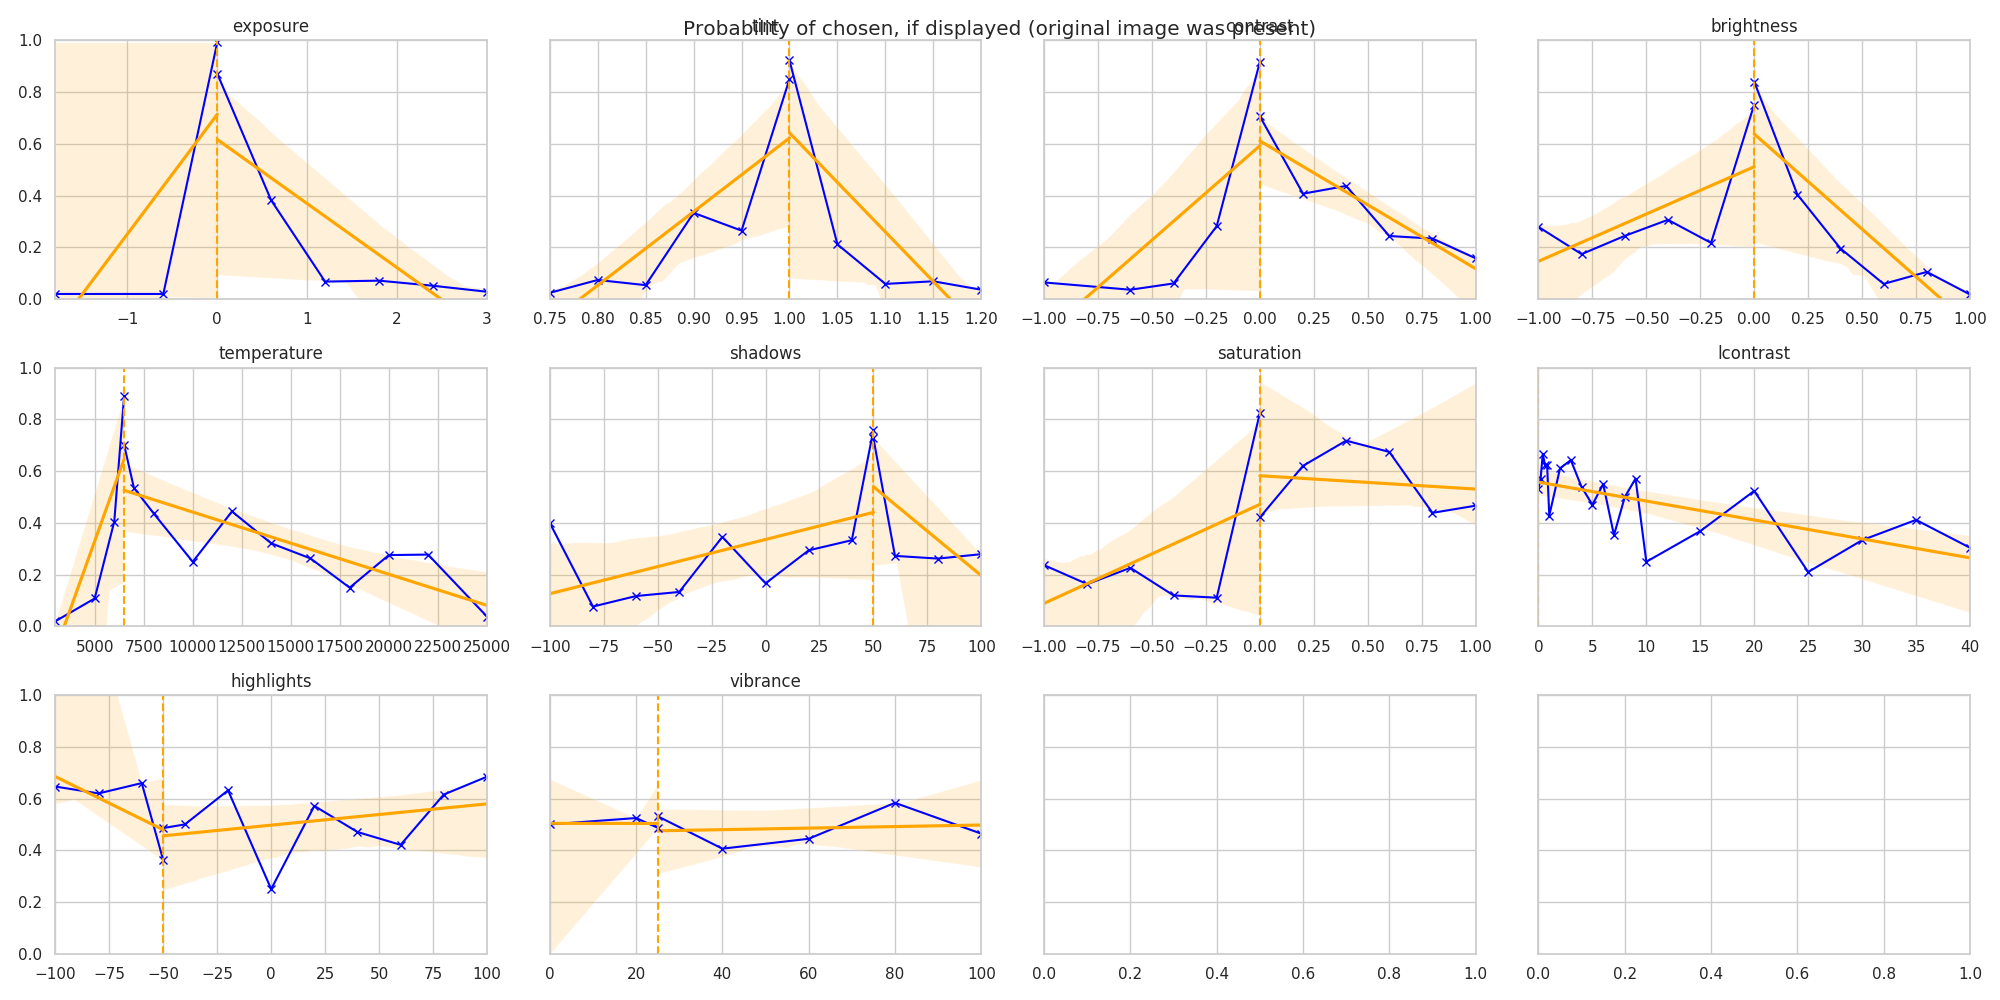
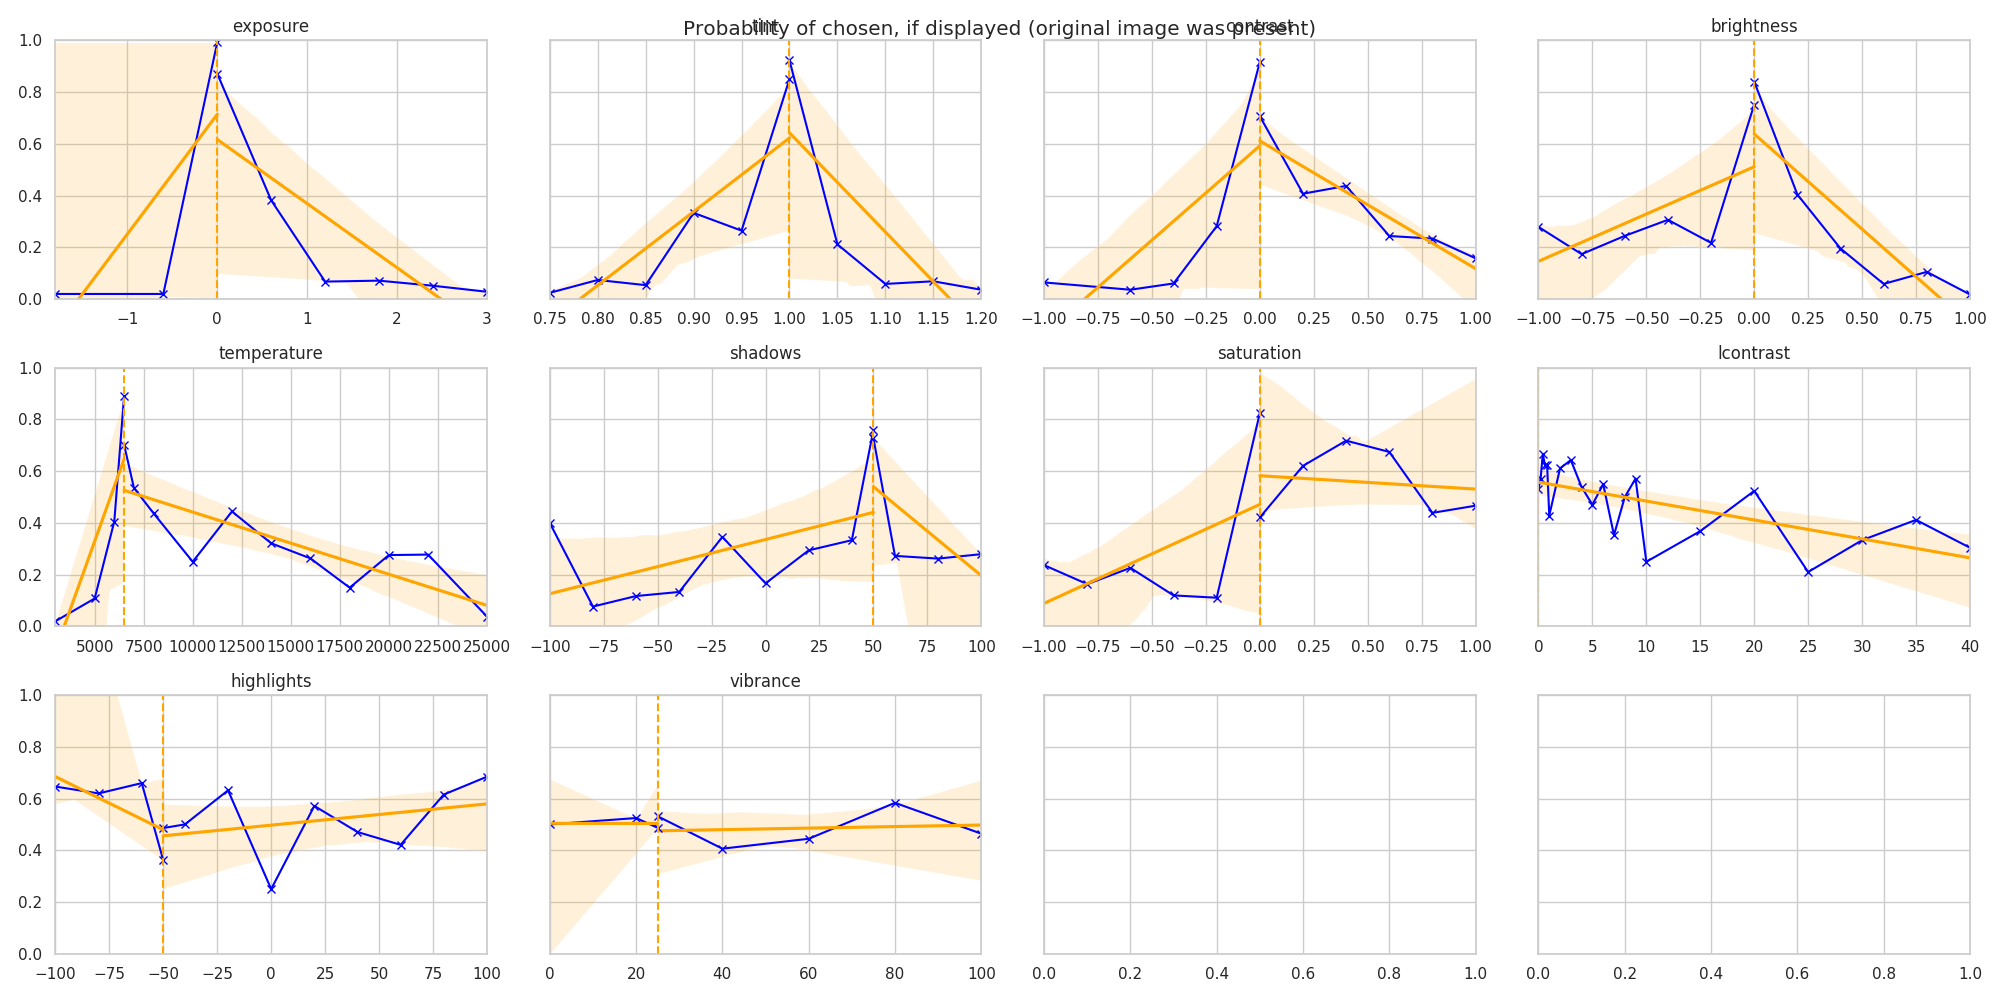
fixie

diff --git a/survey/analyser.py b/survey/analyser.py
@@ -81,6 +81,7 @@ sub_df["smallRelDistDefault"] = sub_df.apply(lambda row: min(row.lRelDistDefault
 sub_df["largeRelDistDefault"] = sub_df.apply(lambda row: max(row.lRelDistDefault, row.rRelDistDefault), axis=1)
 sub_df["smallLargeRelDistDefault"] = sub_df.apply(lambda row: abs((row.smallRelDistDefault) - (row.largeRelDistDefault)), axis=1)
 sub_df["smallLargeRelDistDefault"] = sub_df.apply(lambda row: 0 if math.isclose(row.smallLargeRelDistDefault, 0) else row.smallLargeRelDistDefault, axis=1)
+sub_df["smallLargeRelDistDefault"] = sub_df.apply(lambda row: round(row.smallLargeRelDistDefault, 2), axis=1)
 sub_df["changeSign"] = sub_df.apply(lambda row: 0 if math.isclose(row.largeChange - row.default, 0) else row.largeChange - row.default, axis=1)
 sub_df["changeSign"] = sub_df.apply(lambda row: np.sign(row.changeSign), axis=1)
 
@@ -198,30 +199,30 @@ for i, key in enumerate(params):
     print(f"\tunsure but not equal:\t{'{:.1f}%'.format(analyzeDict[key]['unsure_not_eq'] / analyzeDict[key]['overall'] * 100)}\t| {analyzeDict[key]['unsure_not_eq']}")
     print(f"\tnot unsure but equal:\t{'{:.1f}%'.format(analyzeDict[key]['not_unsure_eq'] / analyzeDict[key]['overall'] * 100)}\t| {analyzeDict[key]['not_unsure_eq']}")
 
-    print("\tcorr. for pos. changes | one image original | larger changes == more clicks for original image?:")
+    print("\tcorr. for pos. changes | one image original | larger relative changes == more clicks for original image?:")
     print("\t\tpearson:\tcorr. coeff: {:05.3f} p: {:05.4f}".format(*pearsonr(*list(zip(*analyzeDict[key]["smallerChosenRelChangesOrigPresentPos"].items())))))
     print("\t\tspearman:\tcorr. coeff: {:05.3f} p: {:05.4f}".format(*spearmanr(*list(zip(*analyzeDict[key]["smallerChosenRelChangesOrigPresentPos"].items())))))
     print("\t\tlinregr:\tslope: {:05.3f} intercept: {:05.3f} corr. coeff: {:05.3f} p: {:05.4f} stderr: {:05.3f}".format(*linregress(*list(zip(*analyzeDict[key]["smallerChosenRelChangesOrigPresentPos"].items())))))
 
     if len(analyzeDict[key]["smallerChosenRelChangesOrigPresentNeg"]) != 0 and key != "vibrance":
-        print("\tcorr. for neg. changes | one image original | larger changes == more clicks for original image?:")
+        print("\tcorr. for neg. changes | one image original | larger relative changes == more clicks for original image?:")
         print("\t\tpearson:\tcorr. coeff: {:05.3f} p: {:05.4f}".format(*pearsonr(*list(zip(*analyzeDict[key]["smallerChosenRelChangesOrigPresentNeg"].items())))))
         print("\t\tspearman:\tcorr. coeff: {:05.3f} p: {:05.4f}".format(*spearmanr(*list(zip(*analyzeDict[key]["smallerChosenRelChangesOrigPresentNeg"].items())))))
         print("\t\tlinregr:\tslope: {:05.3f} intercept: {:05.3f} corr. coeff: {:05.3f} p: {:05.4f} stderr: {:05.3f}".format(*linregress(*list(zip(*analyzeDict[key]["smallerChosenRelChangesOrigPresentNeg"].items())))))
 
-    print("\tcorr. for pos. changes | all | larger changes == more clicks for original image?:")
+    print("\tcorr. for pos. changes | all | larger relative changes == more clicks for (more) original image?:")
     print("\t\tpearson:\tcorr. coeff: {:05.3f} p: {:05.4f}".format(*pearsonr(*list(zip(*analyzeDict[key]["smallerChosenRelChangesPos"].items())))))
     print("\t\tspearman:\tcorr. coeff: {:05.3f} p: {:05.4f}".format(*spearmanr(*list(zip(*analyzeDict[key]["smallerChosenRelChangesPos"].items())))))
     print("\t\tlinregr:\tslope: {:05.3f} intercept: {:05.3f} corr. coeff: {:05.3f} p: {:05.4f} stderr: {:05.3f}".format(*linregress(*list(zip(*analyzeDict[key]["smallerChosenRelChangesPos"].items())))))
 
     if len(analyzeDict[key]["smallerChosenRelChangesNeg"]) != 0 and key != "vibrance":
-        print("\tcorr. for neg. changes | all | larger changes == more clicks for original image?:")
+        print("\tcorr. for neg. changes | all | larger relative changes == more clicks for (more) original image?:")
         print("\t\tpearson:\tcorr. coeff: {:05.3f} p: {:05.4f}".format(*pearsonr(*list(zip(*analyzeDict[key]["smallerChosenRelChangesNeg"].items())))))
         print("\t\tspearman:\tcorr. coeff: {:05.3f} p: {:05.4f}".format(*spearmanr(*list(zip(*analyzeDict[key]["smallerChosenRelChangesNeg"].items())))))
         print("\t\tlinregr:\tslope: {:05.3f} intercept: {:05.3f} corr. coeff: {:05.3f} p: {:05.4f} stderr: {:05.3f}".format(*linregress(*list(zip(*analyzeDict[key]["smallerChosenRelChangesNeg"].items())))))
 
     axs_corr[i].set_title(key)
-    # axs_corr[i].set_ylim(bottom=0, top=1)
+    axs_corr[i].set_ylim(bottom=0, top=1)
     tmp = list(zip(*sorted(analyzeDict[key]["smallerChosenRelChangesPos"].items(), key=lambda k: k[0])))
     axs_corr[i].plot(tmp[0], tmp[1], "-x", color="blue", label="click percentage per editing distance")
     tmp = list(zip(*sorted(analyzeDict[key]["smallerChosenRelChangesOrigPresentPos"].items(), key=lambda k: k[0])))
@@ -236,9 +237,10 @@ for i, key in enumerate(params):
         tmp[0] = [val * -1 for val in tmp[0]]
         axs_corr[i].plot(tmp[0], tmp[1], "-x", color="orange")
 
+    axs_corr[i].axvline(x=0, linestyle="--", color="orange", label="original image")
+
     axs[i].set_title(key)
     axs[i].set_ylim(bottom=0, top=1)
-
     tmp = list(zip(*sorted(analyzeDict[key]["chosenChangesPos"].items(), key=lambda k: k[0])))
     axs[i].plot(tmp[0], tmp[1], "-x", color="blue", label="probability of chosen if displayed")
     sns.regplot(tmp[0], tmp[1], scatter=False, color="orange", label="linear regression", ax=axs[i])
